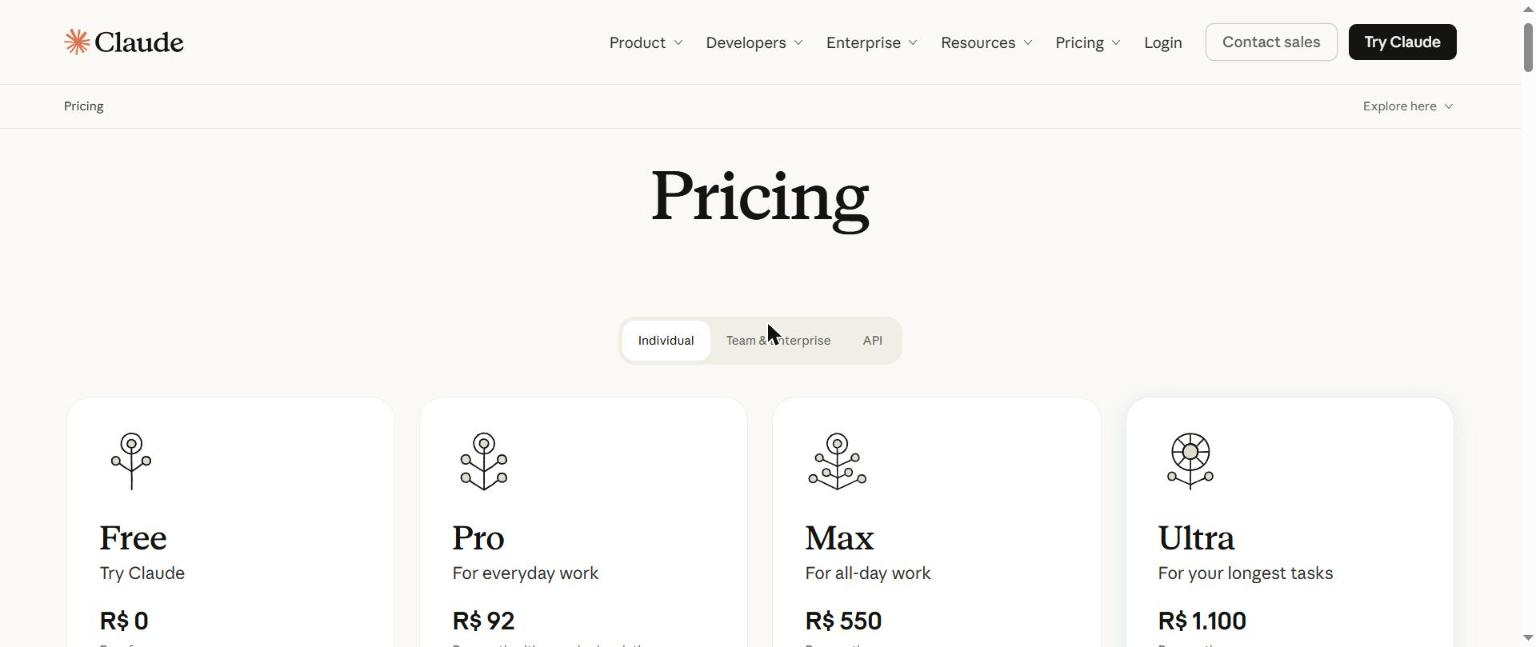
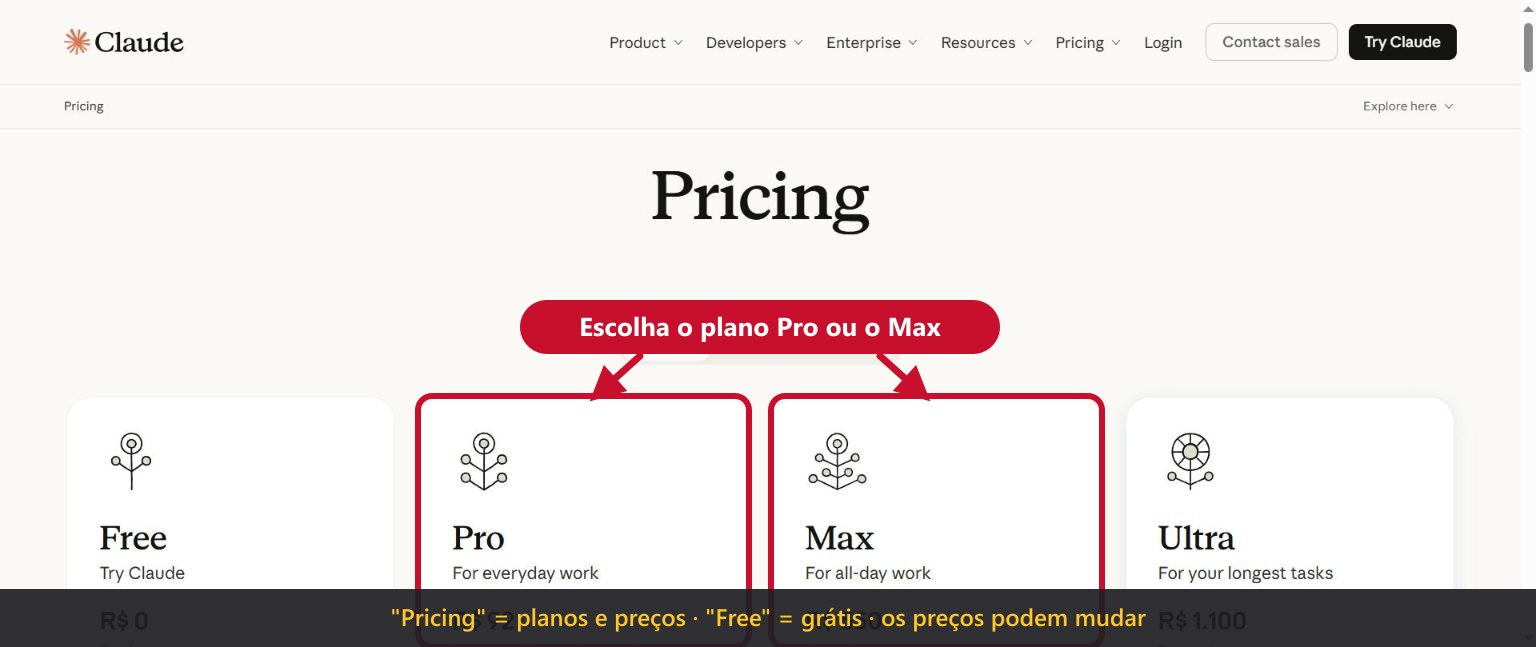
Tutorial: prints com setas e legendas em português
- O site do Claude só existe em inglês; os prints dos passos 1, 2 e 3
  ganharam marcações em vermelho e uma faixa com a tradução dos botões

Changed region(s): [[0.0, 0.4637, 1.0, 1.0]]

diff --git a/TUTORIAL.md b/TUTORIAL.md
@@ -15,7 +15,7 @@ Não precisa saber programar.
 
 ![Passo 1](assets/tutorial/passo-1-conta.svg)
 
-**📸 Tela de verdade** — os planos em [claude.com/pricing](https://claude.com/pricing). Escolha **Pro** ou **Max** (os preços podem mudar):
+**📸 Tela de verdade** (o site é em inglês; as marcações em vermelho mostram onde clicar) — os planos em [claude.com/pricing](https://claude.com/pricing). Escolha **Pro** ou **Max** (os preços podem mudar):
 
 ![Print real: planos do Claude](assets/tutorial/prints/passo-1-planos.jpg)
 
@@ -31,7 +31,7 @@ Não precisa saber programar.
 
 ![Passo 2](assets/tutorial/passo-2-aplicativo.svg)
 
-**📸 Tela de verdade** — página de download. Clique em **Download for Windows** (no Mac aparece o botão do Mac):
+**📸 Tela de verdade** (o site é em inglês; as marcações em vermelho mostram onde clicar) — página de download. Clique em **Download for Windows** (no Mac aparece o botão do Mac):
 
 ![Print real: download do Claude](assets/tutorial/prints/passo-2-download.jpg)
 
@@ -49,7 +49,7 @@ Não precisa saber programar.
 
 ![Passo 3](assets/tutorial/passo-3-extensao.svg)
 
-**📸 Tela de verdade** — página da extensão em [claude.com/chrome](https://claude.com/chrome). Clique em **Add to Chrome**:
+**📸 Tela de verdade** (o site é em inglês; as marcações em vermelho mostram onde clicar) — página da extensão em [claude.com/chrome](https://claude.com/chrome). Clique em **Add to Chrome**:
 
 ![Print real: Claude in Chrome](assets/tutorial/prints/passo-3-extensao.jpg)
 
@@ -111,7 +111,7 @@ Não precisa saber programar.
 
 ![Passo 7](assets/tutorial/passo-7-pedir.svg)
 
-**📸 Tela de verdade** — o Meu Funcionário respondendo:
+**📸 Tela de verdade** (o site é em inglês; as marcações em vermelho mostram onde clicar) — o Meu Funcionário respondendo:
 
 ![Print real: o plugin respondendo](assets/tutorial/prints/passo-7-resposta.png)
 
